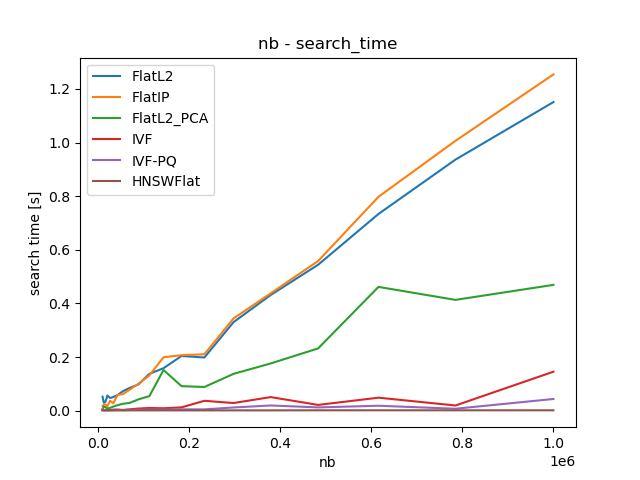
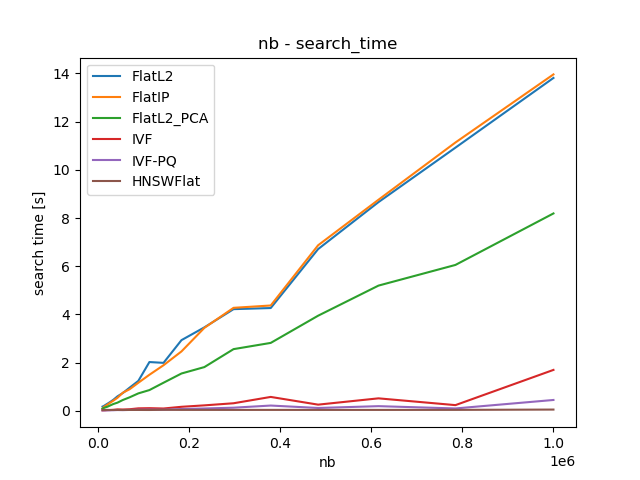
binaryのモデルを追加した。

diff --git a/model/bi_hnswflat.py b/model/bi_hnswflat.py
@@ -1,0 +1,48 @@
+import sys
+import os
+sys.path.append(os.path.join(os.path.dirname(__file__), ".."))
+
+import faiss
+from data.data import make_data
+import time
+
+class BinaryHNSW():
+  def __init__(self, k, m):
+    self.k = k
+    self.m = m
+    self.name = "Binary HNSW"
+
+  def train(self, xb, d):
+    """
+    returns 
+        time_train  : time elapsed during training
+    """
+    self.index = faiss.IndexBinaryHNSW(d * 8, self.m)
+
+    time_train = 0
+    start = time.time()
+    self.index.add(xb.astype("uint8"))
+    time_add = time.time() - start
+
+    return time_train, time_add
+  
+  def search(self, xq):
+    """
+    returns 
+        D : distance nearest k neighbor (n, k)
+        I : Id nearest k neighbor (n, k)
+        time_search : time spend at searchings
+    """
+    assert self.index.is_trained
+    start = time.time()
+    D, I = self.index.search(xq.astype("uint8"), self.k)
+    time_search = time.time() - start
+    return D, I, time_search
+  
+if __name__=="__main__":
+  obj = BinaryHNSW(k = 4, m = 3)
+  xb, xq, d = make_data()
+  time_train, _ = obj.train(xb, d)
+  _, I, time_search = obj.search(xq)
+  print(I[-5:])
+  print(f"time : {time_search}")

diff --git a/compare.py b/compare.py
@@ -8,6 +8,7 @@ from model.flatl2_pca import FlatL2PCA
 from model.ivf import IVF
 from model.ivfpq import IVFPQ
 from model.hnswflat import HNSWFlat
+from model.bi_hnswflat import BinaryHNSW
 
 def main():
   # モデル定義
@@ -18,12 +19,14 @@ def main():
   ivf = IVF(k = k, nlist = 100, nprobe = 3)
   ivfpq = IVFPQ(k = k, nlist = 100, m = 8)
   hnswFlat = HNSWFlat(k = k, m = 20)
-  models = [flatL2, flatIP, flatL2pca, ivf, ivfpq, hnswFlat]
+  bi_hnsw = BinaryHNSW(k = k, m = 20)
+  # models = [flatL2, flatIP, flatL2pca, ivf, ivfpq, hnswFlat, bi_hnsw]
+  models = [hnswFlat, bi_hnsw]
   
   nb_list = np.logspace(4, 6, 20).astype("int")
-  nq_list = [1000]
+  nq_list = [10000]
   d_list = [64]
-  n_trial = 5
+  n_trial = 1
   time_train_list = [[[] for i in range(len(models))] for i in range(n_trial)]
   time_add_list = [[[] for i in range(len(models))] for i in range(n_trial)]
   time_search_list = [[[] for i in range(len(models))] for i in range(n_trial)]
